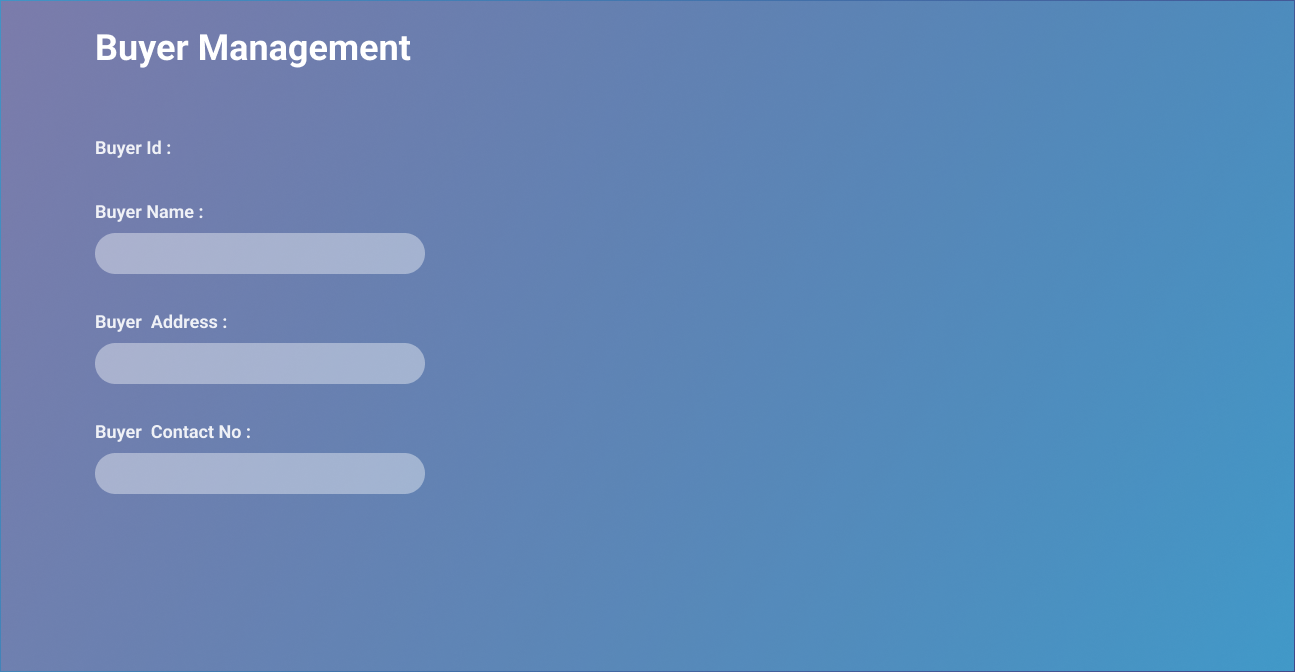
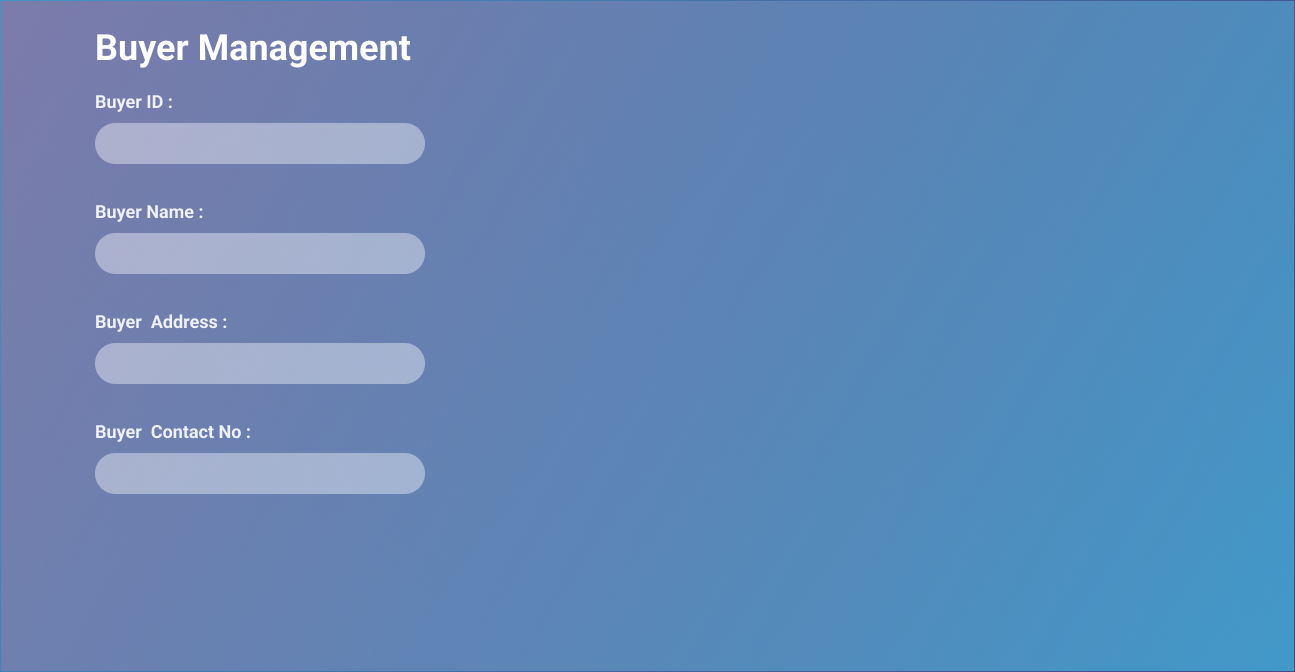
buyer 1.0.0

Changed region(s): [[0.0618, 0.125, 0.3398, 0.25]]

diff --git a/project_dkf/src/main/java/lk/ijse/project_dkf/controller/BuyerFormController.java b/project_dkf/src/main/java/lk/ijse/project_dkf/controller/BuyerFormController.java
@@ -1,11 +1,46 @@
 package lk.ijse.project_dkf.controller;
 
+import javafx.collections.FXCollections;
+import javafx.collections.ObservableList;
 import javafx.event.ActionEvent;
 import javafx.fxml.FXML;
-import javafx.scene.control.TextField;
+import javafx.fxml.Initializable;
+import javafx.scene.control.*;
+import javafx.scene.control.cell.PropertyValueFactory;
+import javafx.scene.input.MouseEvent;
+import javafx.scene.layout.AnchorPane;
 import javafx.scene.text.Text;
+import lk.ijse.project_dkf.dto.Buyer;
+import lk.ijse.project_dkf.dto.tm.BuyerTM;
+import lk.ijse.project_dkf.model.BuyerModel;
+import lk.ijse.project_dkf.util.Navigation;
+import lk.ijse.project_dkf.util.Rout;
 
-public class BuyerFormController {
+import javax.swing.table.DefaultTableModel;
+import java.io.IOException;
+import java.net.URL;
+import java.sql.SQLException;
+import java.util.List;
+import java.util.ResourceBundle;
+
+public class BuyerFormController implements Initializable {
+    @FXML
+    private AnchorPane midleStage;
+    @FXML
+    private TableColumn<?, ?> colAddress;
+
+    @FXML
+    private TableColumn<?, ?> colContact;
+
+    @FXML
+    private TableColumn<?, ?> colId;
+
+    @FXML
+    private TableColumn<?, ?> colName;
+    @FXML
+    private TableView tblBuyer;
+    @FXML
+    private TextField buyerIdTxt;
     @FXML
     private TextField BuyerCnTxt;
 
@@ -17,19 +52,103 @@ public class BuyerFormController {
 
     @FXML
     private Text idTxt;
-
+    @FXML
+    void relodeBtnOnAction(ActionEvent event) throws IOException {
+        Navigation.navigation(Rout.BUYER,midleStage);
+    }
     @FXML
     void addBtnOnAction(ActionEvent event) {
-
+        Buyer buyer=new Buyer(buyerIdTxt.getText(),buyerNameTxt.getText(),BuyerCnTxt.getText(),buyerAddTxt.getText());
+        try {
+            boolean affectedRows= BuyerModel.addBuyer(buyer);
+            if (affectedRows ) {
+                buyerIdTxt.clear();
+                buyerNameTxt.clear();
+                buyerAddTxt.clear();
+                BuyerCnTxt.clear();
+                new Alert(Alert.AlertType.CONFIRMATION,
+                        "Buyer Add!")
+                        .show();
+            }
+        } catch (SQLException e) {
+            new Alert(Alert.AlertType.ERROR,
+                    "Something is wrong")
+                    .show();
+        }
     }
+    @FXML
+    void idSearchOnAction(ActionEvent event) {
+        Buyer buyer=new Buyer();
+        buyer.setBuyerId(buyerIdTxt.getText());
 
+        try {
+            Buyer searchBuyer=BuyerModel.search(buyer);
+            if (!(searchBuyer==null)){
+                buyerIdTxt.setText(searchBuyer.getBuyerId());
+                buyerNameTxt.setText(searchBuyer.getBuyerName());
+                buyerAddTxt.setText(searchBuyer.getBuyerAddress());
+                BuyerCnTxt.setText(searchBuyer.getBuyerCn());
+            }
+        } catch (SQLException e) {
+            new Alert(Alert.AlertType.WARNING,"Something happened :(").show();
+            e.printStackTrace();
+        }
+    }
     @FXML
     void deleteBtnOnAction(ActionEvent event) {
+        Buyer buyer=new Buyer();
+        buyer.setBuyerId(buyerIdTxt.getText());
 
+        try {
+            boolean delete=BuyerModel.delete(buyer);
+            if(delete){
+                new Alert(Alert.AlertType.CONFIRMATION,"Buyer Deleted ! :)").show();
+            }
+        } catch (SQLException e) {
+            new Alert(Alert.AlertType.WARNING,"Something happened :(").show();
+            e.printStackTrace();
+        }
     }
-
     @FXML
     void updateBtnOnAction(ActionEvent event) {
+        Buyer buyer=new Buyer(buyerIdTxt.getText(),buyerNameTxt.getText(),BuyerCnTxt.getText(),buyerAddTxt.getText());
 
+        try {
+            boolean update=BuyerModel.update(buyer);
+            if(update){
+                new Alert(Alert.AlertType.CONFIRMATION,"Buyer updated ! :)").show();
+            }
+        } catch (SQLException e) {
+            new Alert(Alert.AlertType.WARNING,"something happened ! :(").show();
+            e.printStackTrace();
+        }
+    }
+
+    @Override
+    public void initialize(URL url, ResourceBundle resourceBundle) {
+        setCelValueFactory();
+        ObservableList<BuyerTM> object = FXCollections.observableArrayList();
+        try {
+            List<Buyer> all = BuyerModel.getAll();
+            for (Buyer buyer: all){
+                object.add(new BuyerTM(
+                   buyer.getBuyerId(),
+                   buyer.getBuyerName(),
+                   buyer.getBuyerCn(),
+                   buyer.getBuyerAddress()
+                ));
+            }
+            tblBuyer.setItems(object);
+        } catch (SQLException e) {
+            new Alert(Alert.AlertType.ERROR,
+                    "Something is wrong")
+                    .show();
+        }
+    }
+    private void setCelValueFactory(){
+        colId.setCellValueFactory(new PropertyValueFactory<>("id"));
+        colName.setCellValueFactory(new PropertyValueFactory<>("name"));
+        colContact.setCellValueFactory(new PropertyValueFactory<>("cn"));
+        colAddress.setCellValueFactory(new PropertyValueFactory<>("address"));
     }
 }

diff --git a/project_dkf/src/main/java/lk/ijse/project_dkf/model/BuyerModel.java b/project_dkf/src/main/java/lk/ijse/project_dkf/model/BuyerModel.java
@@ -1,0 +1,65 @@
+package lk.ijse.project_dkf.model;
+
+import lk.ijse.project_dkf.dto.Buyer;
+import lk.ijse.project_dkf.dto.User;
+import lk.ijse.project_dkf.util.CrudUtil;
+
+import java.sql.ResultSet;
+import java.sql.SQLException;
+import java.util.ArrayList;
+import java.util.List;
+
+public class BuyerModel {
+    public static boolean addBuyer(Buyer buyer) throws SQLException {
+        String sql ="INSERT INTO Buyer (BuyerID,BuyerName,BuyerCN,BuyerAddress ) VALUES(?, ?, ?, ?)";
+        return CrudUtil.execute(
+                sql,
+                buyer.getBuyerId(),
+                buyer.getBuyerName(),
+                buyer.getBuyerCn(),
+                buyer.getBuyerAddress()
+        );
+    }
+    public static List<Buyer> getAll() throws SQLException {
+        String sql = "SELECT * FROM Buyer";
+        ResultSet resultSet = CrudUtil.execute(sql);
+
+        ArrayList<Buyer> buyers=new ArrayList<>();
+        while (resultSet.next()){
+            String id= resultSet.getString(1);
+            String name=resultSet.getString(2);
+            String cn=resultSet.getString(3);
+            String address=resultSet.getString(4);
+
+            Buyer buyer=new Buyer(id,name,cn,address);
+            buyers.add(buyer);
+        }
+        return buyers;
+    }
+
+    public static Buyer search(Buyer buyer) throws SQLException {
+        String sql = "SELECT * FROM Buyer WHERE BuyerID=?";
+        ResultSet resultSet = CrudUtil.execute(sql,buyer.getBuyerId());
+        if (resultSet.next()){
+            return new Buyer(
+                    resultSet.getString(1),
+                    resultSet.getString(2),
+                    resultSet.getString(3),
+                    resultSet.getString(4)
+            );
+        }
+        return null;
+    }
+
+    public static boolean update(Buyer buyer) throws SQLException {
+        String sql = "UPDATE Buyer SET BuyerName = ?, BuyerCN = ?, BuyerAddress = ? WHERE BuyerID = ?";
+        boolean result = CrudUtil.execute(sql,buyer.getBuyerName(),buyer.getBuyerCn(),buyer.getBuyerAddress(),buyer.getBuyerId());
+        return result;
+    }
+
+    public static boolean delete(Buyer buyer) throws SQLException {
+        String sql="DELETE FROM Buyer WHERE BuyerID=?";
+        boolean result = CrudUtil.execute(sql,buyer.getBuyerId());
+        return result;
+    }
+}

diff --git a/project_dkf/src/main/java/lk/ijse/project_dkf/dto/Buyer.java b/project_dkf/src/main/java/lk/ijse/project_dkf/dto/Buyer.java
@@ -1,0 +1,15 @@
+package lk.ijse.project_dkf.dto;
+
+import lombok.*;
+
+@Setter
+@Getter
+@AllArgsConstructor
+@NoArgsConstructor
+@ToString
+public class Buyer {
+    private String buyerId;
+    private String buyerName;
+    private String buyerCn;
+    private String buyerAddress;
+}

diff --git a/project_dkf/src/main/java/lk/ijse/project_dkf/dto/tm/BuyerTM.java b/project_dkf/src/main/java/lk/ijse/project_dkf/dto/tm/BuyerTM.java
@@ -1,0 +1,15 @@
+package lk.ijse.project_dkf.dto.tm;
+
+import lombok.*;
+
+@AllArgsConstructor
+@NoArgsConstructor
+@Getter
+@Setter
+@ToString
+public class BuyerTM {
+    private String id;
+    private String name;
+    private String cn;
+    private String address;
+}
